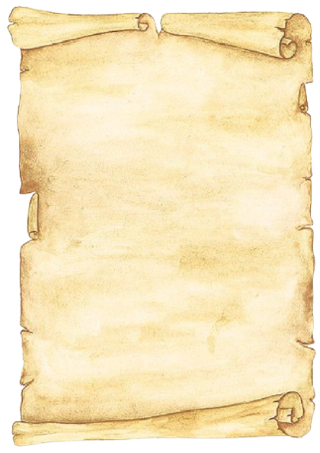
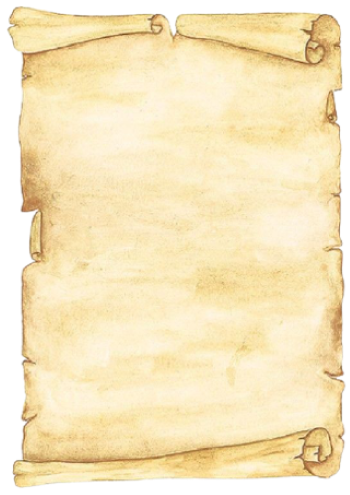
fuuuuuuuuuuuuuuuck

diff --git a/game/src/game/Question.java b/game/src/game/Question.java
@@ -1,8 +1,6 @@
 package game;
 
 import java.awt.event.*;
-import java.awt.image.ImageObserver;
-import java.awt.image.ImageProducer;
 import java.util.ArrayList;
 import java.awt.*;
 import javax.swing.*;
@@ -156,10 +154,10 @@ static ArrayList <String> options3 = new ArrayList<String>();
 	JLabel answer_IconD = new JLabel();
 	
 	
-	JTextField number_right = new JTextField();
-	JTextField percentage = new JTextField();
+	//JTextField number_right = new JTextField();
+	//JTextField percentage = new JTextField();
 
-	ImageIcon delos = new ImageIcon("game/src/game/4.jpg");
+	ImageIcon delos = new ImageIcon("game/src/game/dilos.jpg");
 	ImageIcon crete = new ImageIcon("game/src/game/crete.jpg");
 	ImageIcon mycenae = new ImageIcon("game/src/game/mycenae.jpg");
 	ImageIcon right = new ImageIcon("game/src/game/right-removebg-preview.png");
@@ -171,7 +169,7 @@ static ArrayList <String> options3 = new ArrayList<String>();
 	public Question(int x, JFrame frame) {
 		this.x = x;
 		this.frame = frame;
-		//te background settings
+		//the background settings
 		
 		frame.setDefaultCloseOperation(JFrame.EXIT_ON_CLOSE);
 		frame.setSize(608,800);
@@ -179,12 +177,12 @@ static ArrayList <String> options3 = new ArrayList<String>();
 		frame.setLayout(null);
 		frame.setResizable(false);
 		
-		scrollLabel.setBounds(140, 180, 320, 453);
+		scrollLabel.setBounds(140, 130, 350, 600);
 		scrollLabel.setIcon(scroll);
 		scrollLabel.setVisible(true);
 		
 		
-		background.setBounds(0, 0, 608, 800);
+		background.setSize(608, 800);
 		if (x==1) {
 			background.setIcon(mycenae);
 			 color = new Color(255,225,185);
@@ -334,6 +332,15 @@ static ArrayList <String> options3 = new ArrayList<String>();
 		
 	if (c==1) {
 		if(index>=total_questions) {
+			nextButton.setEnabled(false);
+			buttonA.setVisible(false);
+			buttonB.setVisible(false);
+			buttonC.setVisible(false);
+			buttonD.setVisible(false);
+			frame.remove(buttonA);
+			frame.remove(buttonB);
+			frame.remove(buttonC);
+			frame.remove(buttonD);
 			results();
 		}else {
 			
@@ -347,6 +354,15 @@ static ArrayList <String> options3 = new ArrayList<String>();
 		
 	}else if (c==2) {
 			if(index>=total_questions) {
+				nextButton.setEnabled(false);
+				buttonA.setVisible(false);
+				buttonB.setVisible(false);
+				buttonC.setVisible(false);
+				buttonD.setVisible(false);
+				frame.remove(buttonA);
+				frame.remove(buttonB);
+				frame.remove(buttonC);
+				frame.remove(buttonD);
 				results();
 			}else {
 				
@@ -360,6 +376,15 @@ static ArrayList <String> options3 = new ArrayList<String>();
 			
 	}else if (c==3) {
 			if(index>=total_questions) {
+				nextButton.setEnabled(false);
+				buttonA.setVisible(false);
+				buttonB.setVisible(false);
+				buttonC.setVisible(false);
+				buttonD.setVisible(false);
+				frame.remove(buttonA);
+				frame.remove(buttonB);
+				frame.remove(buttonC);
+				frame.remove(buttonD);
 				results();
 			}else {
 				
@@ -469,19 +494,19 @@ static ArrayList <String> options3 = new ArrayList<String>();
 			frame.remove(textfield);
 			frame.remove(textarea);
 			frame.remove(map);
-			frame.remove(percentage);
-			frame.remove(number_right);
+			//frame.remove(percentage);
+			//frame.remove(number_right);
 			frame.remove(background);
 			frame.remove(answer_IconA);
 			frame.remove(answer_IconB);
 			frame.remove(answer_IconC);
 			frame.remove(answer_IconD);
-			frame.remove(buttonA);
+			/*frame.remove(buttonA);
 			frame.remove(buttonB);
 			frame.remove(buttonC);
-			frame.remove(buttonD);
+			frame.remove(buttonD);*/
 			frame.remove(scrollLabel);
-			Map men = new Map(frame , result);
+			new Map(frame , result);
 		}
 		
 	}
@@ -550,16 +575,6 @@ static ArrayList <String> options3 = new ArrayList<String>();
 	
 	public void results(){
 		
-		frame.remove(buttonA);
-		frame.remove(buttonB);
-		frame.remove(buttonC);
-		frame.remove(buttonD);
-		buttonA.setVisible(false);
-		buttonB.setVisible(false);
-		buttonC.setVisible(false);
-		buttonD.setVisible(false);
-		frame.remove(number_right);
-		frame.remove(percentage);
 		result = correct_guesses*10;
 		
 		textfield.setText("RESULTS!");
@@ -567,10 +582,6 @@ static ArrayList <String> options3 = new ArrayList<String>();
 		background.add(scrollLabel);
 		//scrollLabel.setText("Result:" + result);
 		
-		
-		//number_right.setText(""+result);
-		//frame.add(number_right);
-		//frame.add(percentage);
 		
 	}
 

diff --git a/game/src/game/Map.java b/game/src/game/Map.java
@@ -116,7 +116,7 @@ public class Map extends JFrame {
 		ActionListener b10 = new ActionListener() {
 			public void actionPerformed(ActionEvent e) {	  
 	 			    frame.remove(panel);
-	 			    Result result = new Result(frame,total_score);
+	 			    new Result(frame,total_score);
 	 			    //System.exit(ABORT);
 	 			    
 			}
@@ -168,6 +168,7 @@ public class Map extends JFrame {
 	 	ActionListener b5 = new ActionListener() {
 	 		public void actionPerformed(ActionEvent e) {	  
 	 			 frame.remove(panel);
+	 			 panel.setVisible(false);
 	 		 	   Question mecynes = new Question(1,frame);
 	 		 	   cities.add("Mecynae");
 	 		 	   count++;

diff --git a/game/src/game/fill_the_gap (1).java b/game/src/game/fill_the_gap (1).java
@@ -1,4 +1,4 @@
-package game;
+/*package game;
 import java.util.*;
 
 public class fill_the_gap {
@@ -106,4 +106,4 @@ public class fill_the_gap {
 		return score;
 	}
 
-}
+}*/
